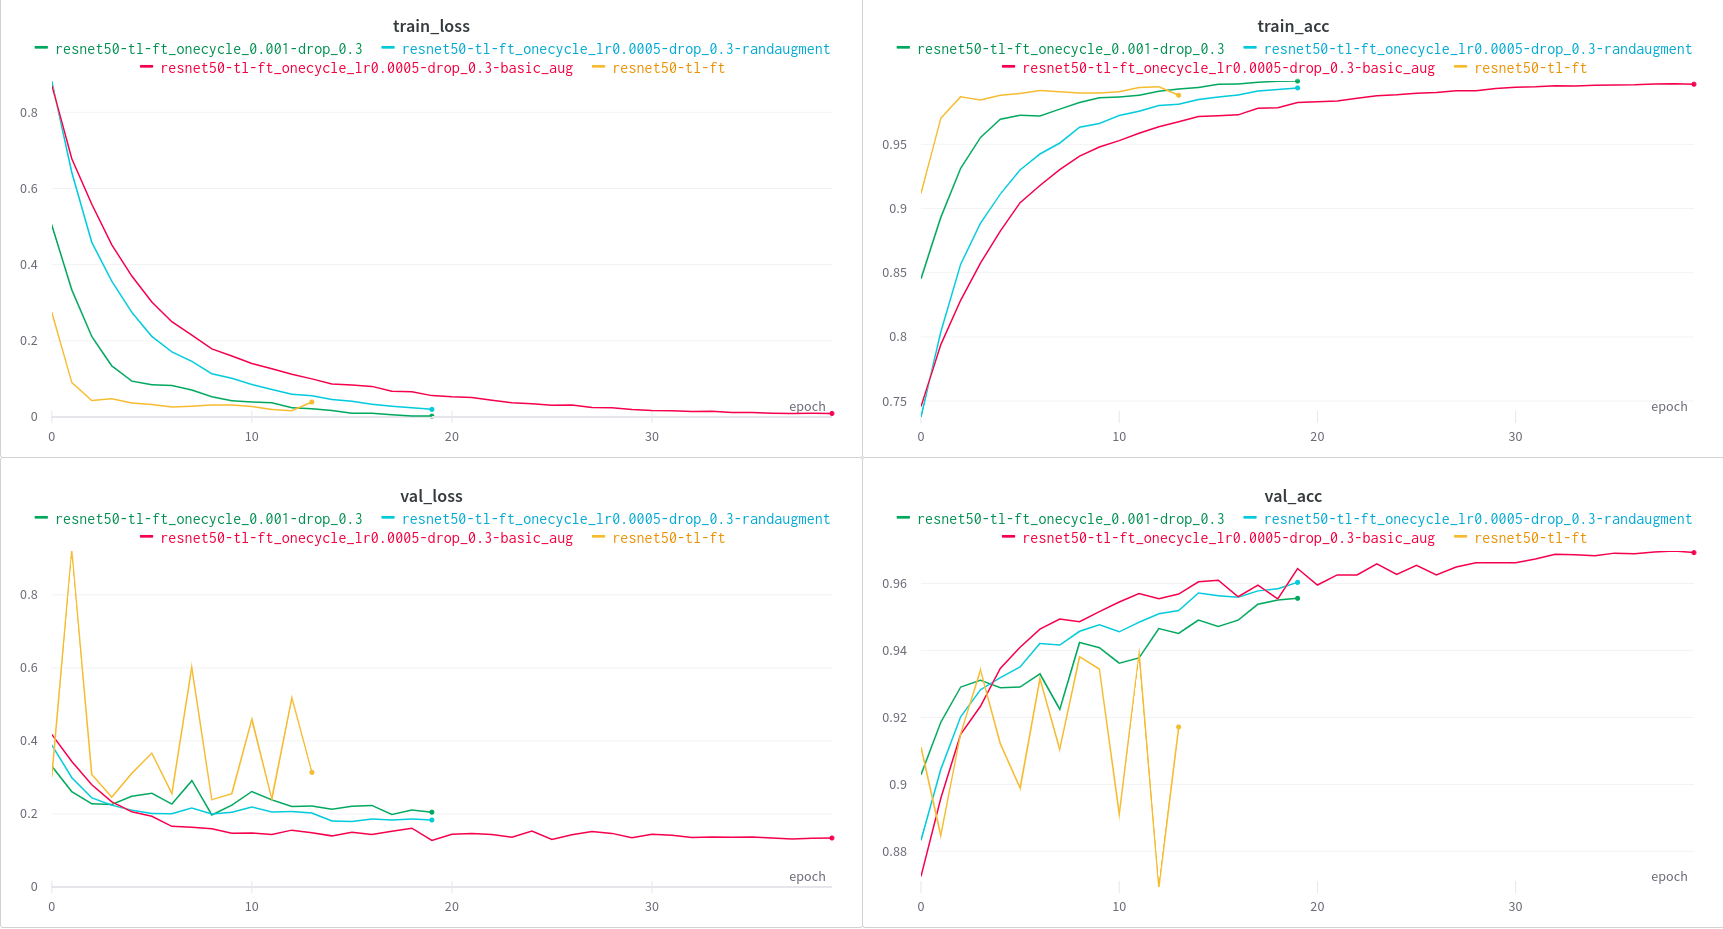
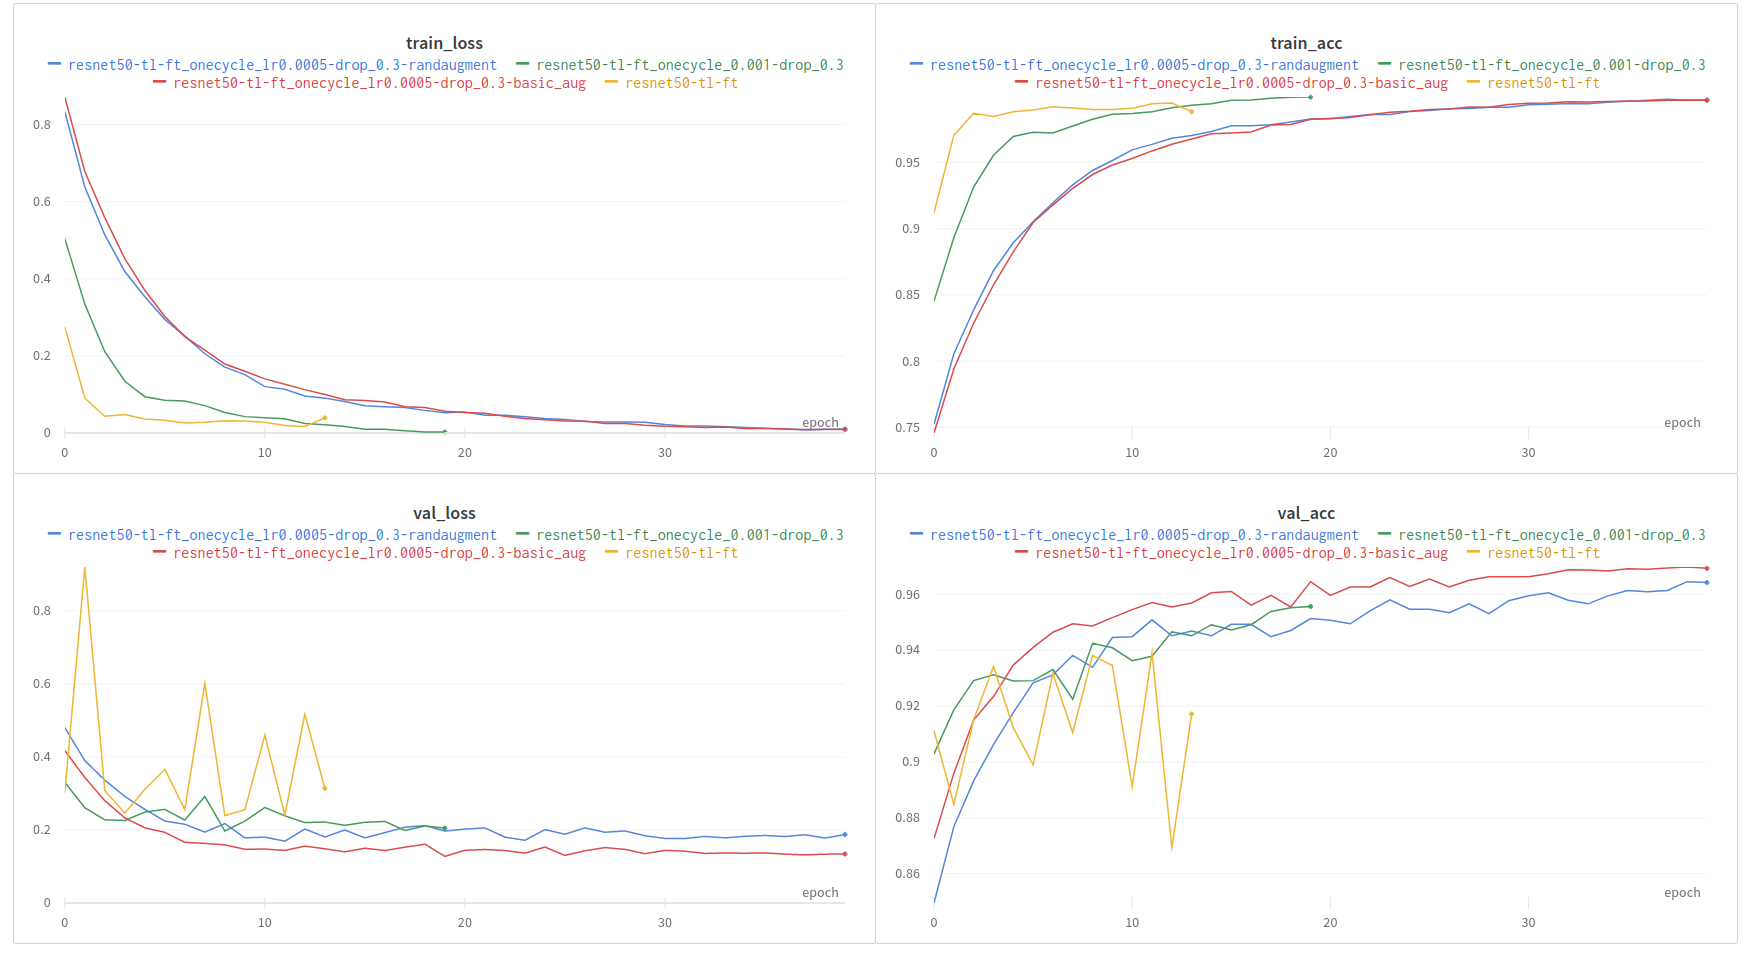
Add improved results for RandAgument in chapter 6

diff --git a/notebooks/06/README.md b/notebooks/06/README.md
@@ -15,6 +15,6 @@ All below models are finetuned (all layers unfrozen) from transfer learning run 
 
 We can see that data augmentation improved validation accuracy:
 - by ~1.5 percentage points for simple handcrafted pipeline
-- by ~0.5 percentage points for RandAugment with 3 operations
+- by ~0.9 percentage points for RandAugment with 3 operations
 
 compared to reference run (#2).
